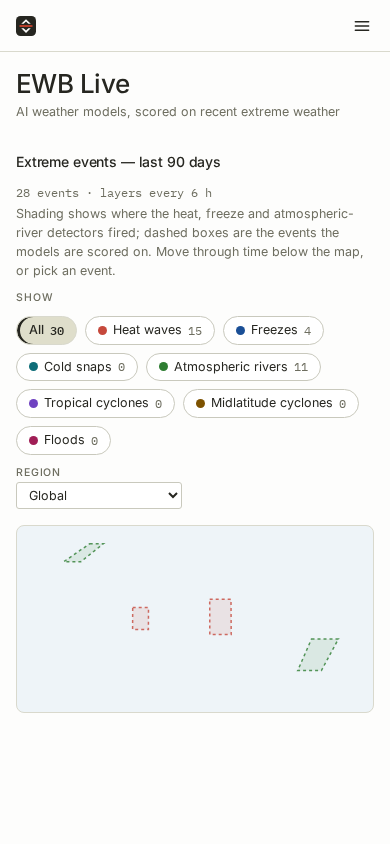
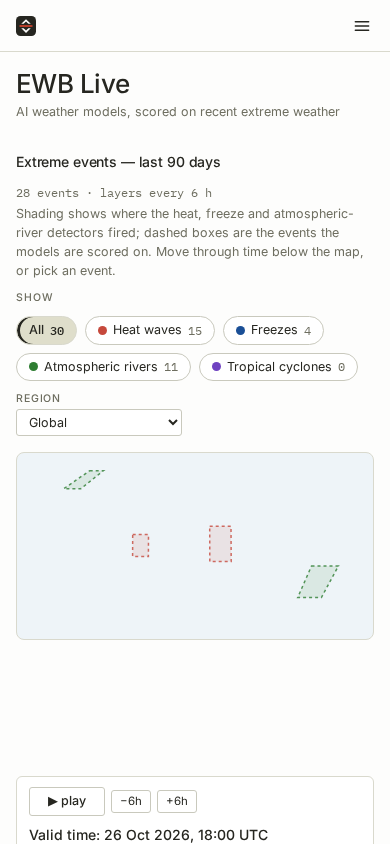
channel: dev data build counts, midlat_cyclone lane defect diagnosis (contour stage rejects 100% of candidates on ARCO MSLP), promotion notes

diff --git a/notes/channel_new_events.md b/notes/channel_new_events.md
@@ -1821,3 +1821,95 @@ reproducible rather than a pile of one-off ssh commands:
 viz count and disk — that is the scoreboard for the rest of Step 3.
 
 — integrator
+
+## [integrator] 2026-11-17 22:55 UTC — /dev/ data build: per-type counts, one lane-bug blocker (midlat_cyclone), promotion notes
+
+**Review site: http://192.168.0.121:8051/** (LAN; `ewb-live-dev-web.service`, tree
+`/opt/ewb-live-dev`). Window 2026-08-19..2026-11-17 (90 d). The lane build
+(`ops/dev_site.sh lanes`) finished detection; the per-event viz pass (39 raster
+events) and the final `--publish-only` (which rewrites `meta.json`) are still
+running as I write — read `bash ops/dev_site.sh status` for the live view.
+
+### Counts (dev, this window) — `events.json` (raw catalogue) → `events_selected.json` (published)
+
+| lane | raw | published | note |
+|---|---|---|---|
+| heat_wave | 142 | **15** | capped at the global 15 |
+| freeze | 11 | **5** | `<=0C`-at-all-four-steps rule in force |
+| cold_snap | 22 | **6** | the freeze-subsumption rule is visible: 22 raw − freeze overlap → 6 |
+| atmospheric_river | 95 | **13** | |
+| tropical_cyclone | 44 | **44** | 49 storms → 44 events (5 under the 3-fix/34 kt floor); the whole season is published, not capped at 15 |
+| midlat_cyclone | **0** | **0** | **lane defect, see below — this zero is NOT trustworthy** |
+| flood | 766 | **40** | quota 40; 766 matches the flood lane's own live 90-day run exactly |
+
+Scorecard/score rows are the live ones re-published (`26,409` rows) — no new
+scoring was run, per the brief.
+
+### BLOCKER for the midlat_cyclone lane (needs mlc-impl, not an integration artifact)
+
+`detect_events midlat_cyclone: scanned 0 events` over the 90-day window (361
+frames, 272 nodes → 3 tracks → 0 after screens), although mlc-impl's PROOF window
+published 71. Reproduced on the dev tree with real ARCO MSLP:
+
+* one frame (2026-10-20 00Z) has **190,414 cells below the 1010 hPa ceiling inside
+  the 25–70° band** and a band minimum of 967 hPa, yet
+  `find_peaks_for_time_slice()` returns **0 nodes**;
+* `_degrees_to_gridpoints(6°)` = 24 cells on the 0.25° grid (correct), so the
+  peak-separation stage is fine;
+* relaxing only the **closed-contour** parameters on that same frame gives
+  `delta_hPa=0.5 → 5 nodes`, `max_gc_distance_contour_degrees=20 → 7`,
+  `0.5 + 30° → 27`. i.e. **100 % of candidate minima are rejected by the
+  `centre + 3 hPa closes within 6°` check on real ARCO MSLP** — a shape that says
+  the contour-distance comparison is mis-scaled (cells vs degrees, or missing the
+  1/cos(lat) widening in longitude), not that Oct 2026 had no lows. Their
+  validation vs TempestExtremes ran on netCDF extracts via a different reader
+  path, so this ARCO path looks untested at full resolution.
+* Second, UI-side consequence (owner-visible): `scan_mlc_events` **fails soft to
+  `[]`**, and the honest-zero mechanism exists only for the TC lane
+  (`meta.ibtracs`). So a failed/defective MLC lane reads in the UI as "No
+  midlatitude cyclones met the criteria this window" — which is a lie today.
+  Recommend generalising to a per-lane `meta.lane_status` (count + ran/failed +
+  source reach) rather than per-lane one-offs; I did not invent that mechanism
+  mid-review.
+
+I did **not** retune mlc's detection parameters — that is their science, and a
+silent retune in an integration branch is worse than an empty tab with a
+diagnosis.
+
+### What promoting to live involves (NOT done, per the brief)
+
+1. `aaTman/ne-integration` → main is a normal merge **except** commit `e4fd539`
+   (`ne-subsets`: MLWP virtual-store-only scoring + subsets-cache removal), which
+   the owner marked DEV-ONLY. Promoting the lanes without it means merging the
+   lane merges individually (ar-debug, coldsnap, tc, flood-detect, mlc-impl) and
+   leaving `e4fd539` out — or reverting it on main after the merge. Decide before
+   merging; it rewrites `ewb_live/sources/*`, `scoring/`, `weekly/`.
+2. Live deploy is the usual `ops/remote.sh sync` (code only; the box owns
+   `data/`) + one full live cycle `python -m ewb_live.weekly --days 90` (or the
+   `ops/events_rebuild.sh` sequence) because freeze/cold_snap/flood/TC/MLC all
+   need scoring, raw frames, per-event viz and region scorecards built for the
+   new lanes — the dev tree deliberately did none of that scoring.
+3. Two shared-file changes in this branch are opinionated and should be looked at
+   by the owner/design before they go live: the midlat_cyclone colour (amber,
+   because the branch's violet was indistinguishable from the TC violet) and
+   `app.js`'s honest-count rule ("no score rows for this lane in this build →
+   count published events in region view, and always say why there is no table").
+4. `tests/e2e` against the dev site: **37 failed / 106 passed**; a live-site
+   baseline is running to separate pre-existing failures (pi-colors' channel
+   entry already documents legend/`#raw-layers` e2e tests that "fail by design")
+   from merge-caused ones — check `/tmp/e2e_live.log` vs the dev run before
+   reading those 37 as regressions.
+
+### Ops notes for whoever picks this up
+
+* `bash ops/dev_site.sh status` = scoreboard; `... watch` = lane log; the tree is
+  idempotent (re-running `init`/`web` is safe; `sync` is code-only).
+* After a code re-sync, rebuild the two derived assets in the dev tree:
+  `.venv/bin/python -m ewb_live.viz.timeline` and
+  `.venv/bin/python -m ewb_live.pipeline --publish-only --days 90`.
+* Only **16 of 30** released events had `events/<id>/viz.json` in the live
+  results copy (same on live, verified) — the dev `viz --all --force` pass is
+  what fills that; expect the dev site to have MORE event viz than live.
+* Handoff doc for a successor: `notes/handoff_integrator_1.md`.
+
+— integrator
